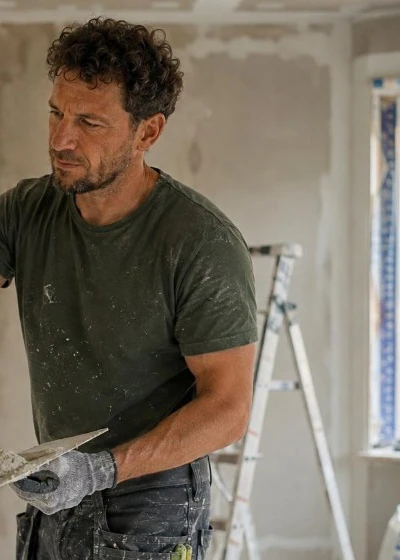
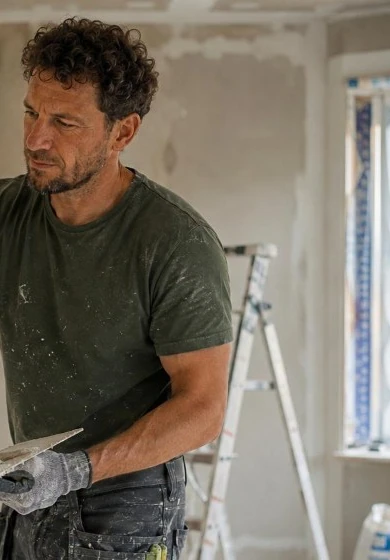
Trim partners mobile hero past wall hand.

diff --git a/css/partners.css b/css/partners.css
@@ -1044,12 +1044,12 @@
     top:56px;
     /* Same original photo, tight extract: face/shoulders/upper body, wall-hand out */
     background-image:image-set(
-      url("/assets/photos/partners-hero-craftsman-mobile.avif?v=20") type("image/avif"),
-      url("/assets/photos/partners-hero-craftsman-mobile.webp?v=20") type("image/webp"),
-      url("/assets/photos/partners-hero-craftsman-mobile.jpg?v=20") type("image/jpeg")
+      url("/assets/photos/partners-hero-craftsman-mobile.avif?v=21") type("image/avif"),
+      url("/assets/photos/partners-hero-craftsman-mobile.webp?v=21") type("image/webp"),
+      url("/assets/photos/partners-hero-craftsman-mobile.jpg?v=21") type("image/jpeg")
     );
     background-size:cover;
-    background-position:12% 6%;
+    background-position:10% 6%;
   }
   .partners-hero-shade{
     top:56px;

diff --git a/partners.html b/partners.html
@@ -23,7 +23,7 @@
 <link rel="preconnect" href="https://fonts.gstatic.com" crossorigin>
 <link href="https://fonts.googleapis.com/css2?family=Inter:wght@400;500;600;700&family=Space+Grotesk:wght@500;600;700&family=Space+Mono:wght@400;700&display=swap" rel="stylesheet">
 <link rel="stylesheet" href="/css/styles.css">
-<link rel="stylesheet" href="/css/partners.css?v=partners-hero-crop-20">
+<link rel="stylesheet" href="/css/partners.css?v=partners-hero-crop-21">
 </head>
 <body class="page-partners">
 <a href="#main" class="skip-link">Ga naar inhoud</a>
